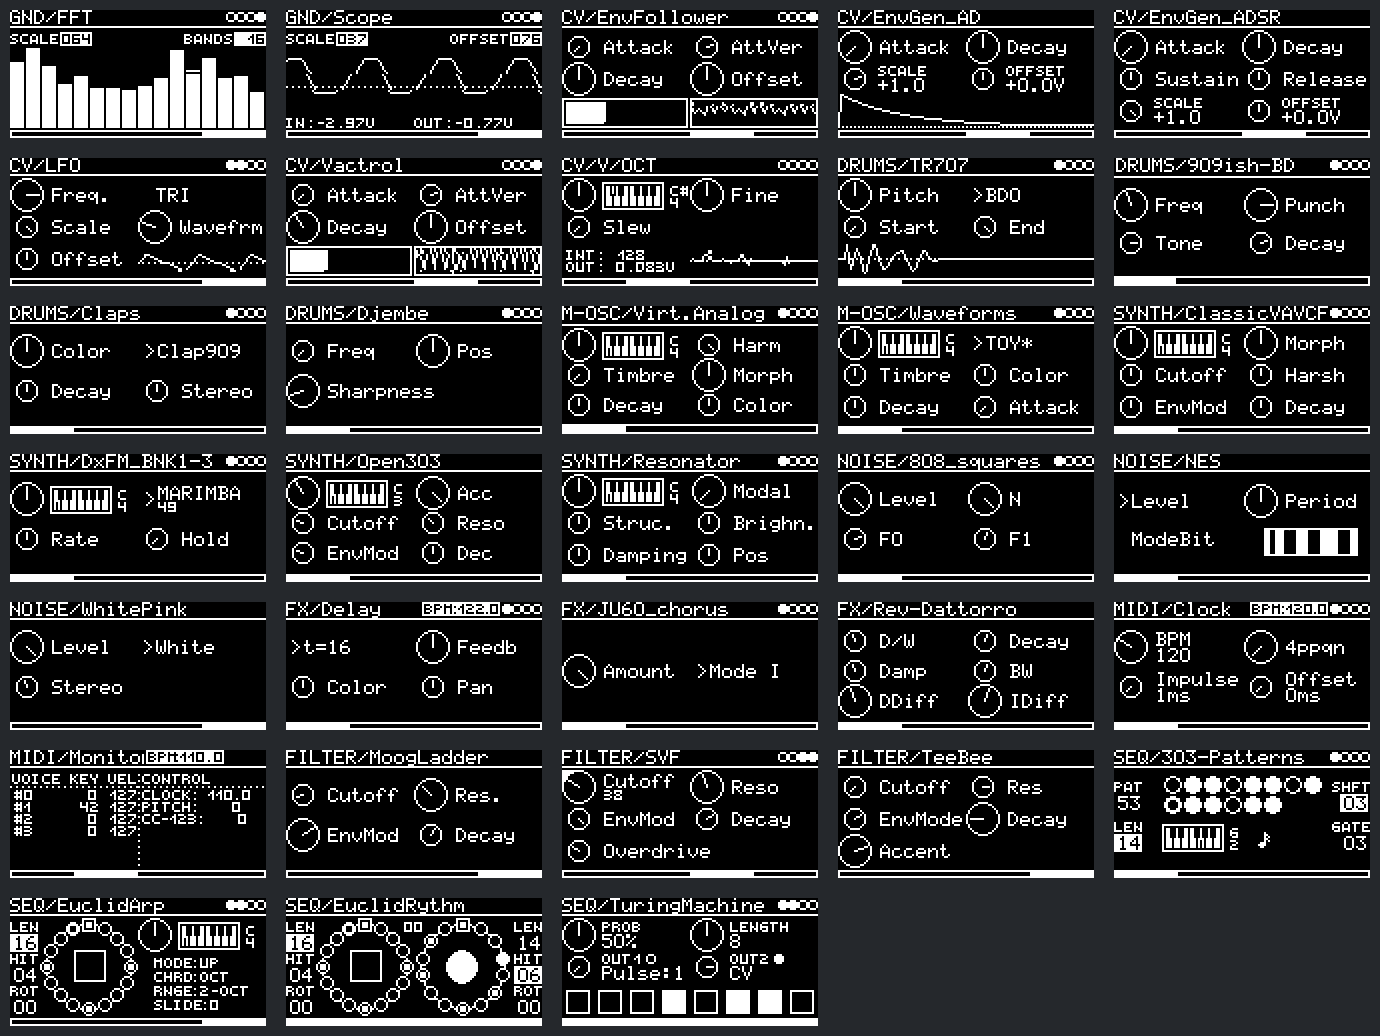
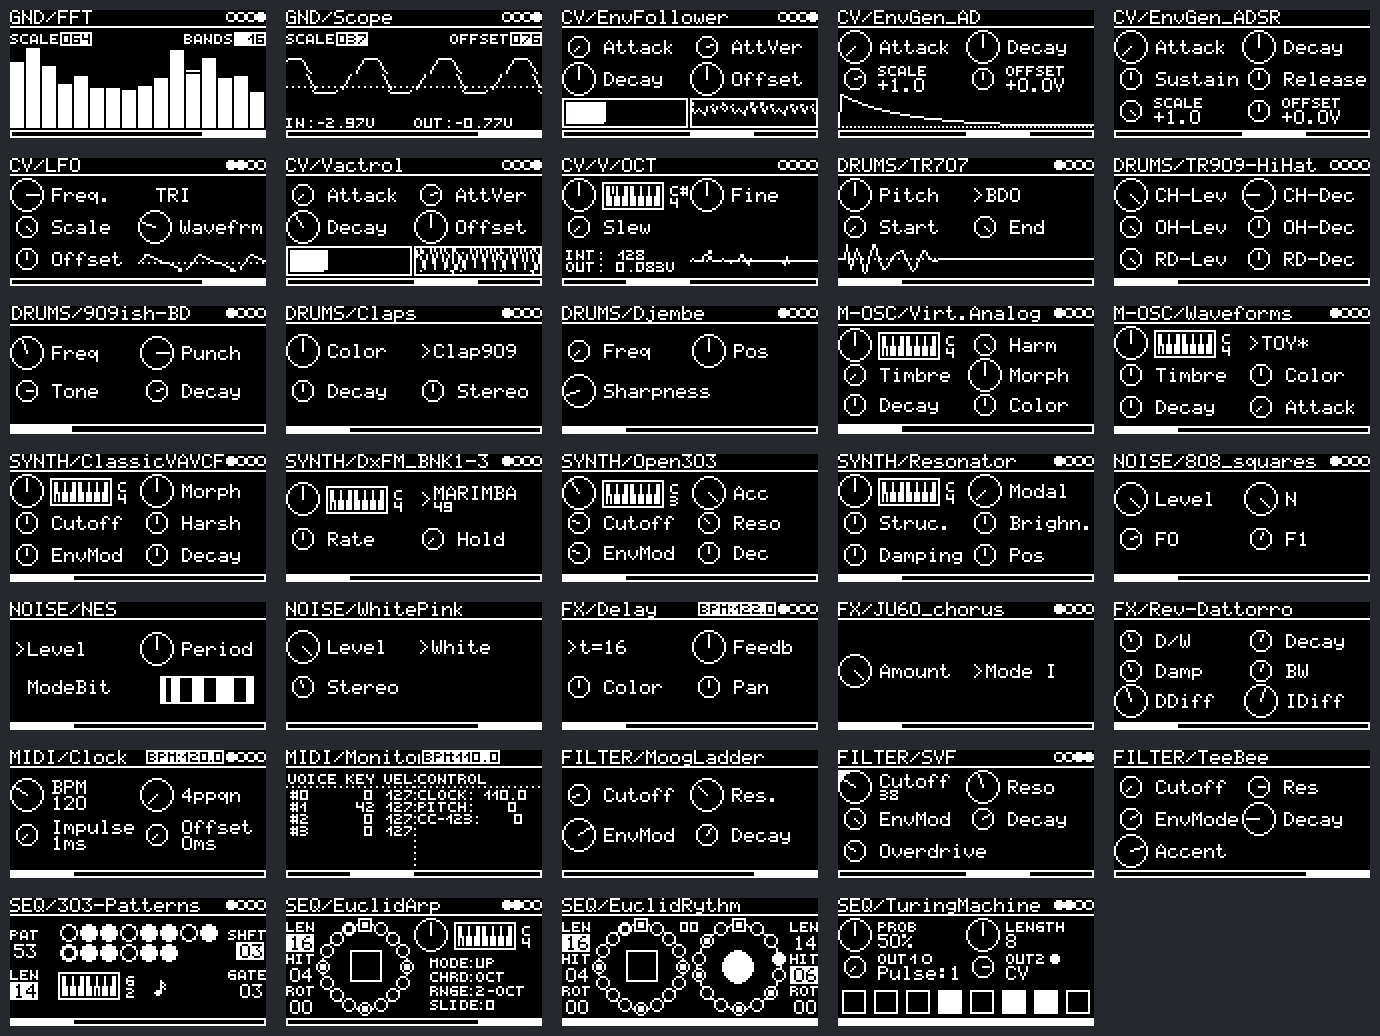
devsync 6d501ea

diff --git a/src/DRUMS/TR909-HiHat.cpp b/src/DRUMS/TR909-HiHat.cpp
@@ -2,27 +2,57 @@
 
 static float _ch_vol = 1.f;
 static float _ch_dec = 0.2f;
+static float _oh_vol = 1.f;
 static float _oh_dec = 0.5f;
+static float _rd_vol = 1.f;
+static float _rd_dec = 0.5f;
 
-int32_t _select = 0;
+int32_t _select;
+const char *sample_names[] = {"CH", "OH", "RD"};
+// void *_samples[3] = {};
 void *_ch = nullptr;
 void *_oh = nullptr;
+void *_rd = nullptr;
+
+static std::pair<uint8_t, uint8_t> midi_key_map[] = {
+    {42, 0}, // HH - Closed
+    {44, 0}, // HH - Pedal
+    {46, 1}, // HH - Open
+    {51, 2}, // RD - Ride
+    {59, 2}, // RD - Ride Edge
+    {53, 2}, // RD - Ride Bell
+    // {49, 3},  // CR - Crash
+    // {55, 3},  // CR - Crash Edge
+    // {57, 3},  // CR - Crash Bow
+    {0xFF, 0}, // END
+};
+
+float *_outputL = nullptr;
+float *_outputR = nullptr;
 
 void engine::setup()
 {
     const uint8_t *HiHats_bin = machine::fs_read("909_HIGH");
+    const uint8_t *Ride_bin = machine::fs_read("909_RIDE");
 
-    if (HiHats_bin == nullptr)
+    if (HiHats_bin == nullptr || Ride_bin == nullptr)
         return;
 
-    _oh = dsp_sample_u8(HiHats_bin, 24576, 32000, 0);
     const int ch_start = 24576;
     _ch = dsp_sample_u8(HiHats_bin + ch_start, 32768 - ch_start, 32000, 0);
+    _oh = dsp_sample_u8(HiHats_bin, 24576, 32000, 0);
+    _rd = dsp_sample_u8(Ride_bin, 32768, 32000, 0);
 
-    engine::addParam("", &_select, 0, 0); // . = hidden
     engine::addParam("CH-Lev", &_ch_vol);
     engine::addParam("CH-Dec", &_ch_dec);
+    engine::addParam("OH-Lev", &_oh_vol);
     engine::addParam("OH-Dec", &_oh_dec);
+    engine::addParam("RD-Lev", &_rd_vol);
+    engine::addParam("RD-Dec", &_rd_dec);
+
+    _outputL = engine::outputBuffer_f32(OUT_AUDIO_L);
+    _outputR = engine::outputBuffer_f32(OUT_AUDIO_R);
+    engine::setupMultiTrigs(3, sample_names, midi_key_map);
 }
 
 void engine::process()
@@ -30,21 +60,36 @@ void engine::process()
     if (_oh == nullptr)
         return;
 
-    auto outputL = engine::outputBuffer<0>();
-    memset(outputL, 0, sizeof(float) * FRAME_BUFFER_SIZE);
-
-    if (engine::accent()) // OH
+    if (engine::trig() & (1 << 1)) // OH
     {
-        dsp_set_sample_pos(_oh, 0, 1.f, _oh_dec);
+        dsp_set_sample_pos(_oh, 0, _oh_vol, _oh_dec);
     }
-    else if (engine::trig()) // CH
+    else if (engine::trig() & (1 << 0)) // CH
     {
         dsp_set_sample_pos(_ch, 0, _ch_vol, _ch_dec);
         dsp_set_sample_pos(_oh, 0, 0, _oh_dec);
     }
 
-    dsp_process_sample(_ch, 0, 1, engine::cv(), outputL);
-    dsp_process_sample(_oh, 0, 1, engine::cv(), outputL);
+    if (engine::trig() & (1 << 2)) // RD
+    {
+        dsp_set_sample_pos(_rd, 0, _rd_vol, _rd_dec);
+    }
+
+    memset(_outputL, 0, sizeof(float) * FRAME_BUFFER_SIZE);
+    memset(_outputR, 0, sizeof(float) * FRAME_BUFFER_SIZE);
+    void *_samples[] = {_ch, _oh, _rd};
+    for (size_t i = 0; i < LEN_OF(_samples) && _samples[i] != nullptr; i++)
+    {
+        float tmp[FRAME_BUFFER_SIZE] = {};
+        dsp_process_sample(_samples[i], 0, 1, engine::cv(), tmp);
+        float levelL = engine::mixLevelL(i);
+        float levelR = engine::mixLevelR(i);
+        for (size_t j = 0; j < FRAME_BUFFER_SIZE; j++)
+        {
+            _outputL[j] += tmp[j] * levelL;
+            _outputR[j] += tmp[j] * levelR;
+        }
+    }
 }
 
 void engine::draw()

diff --git a/src/squares-and-circles-api.h b/src/squares-and-circles-api.h
@@ -41,7 +41,6 @@
 #define V_QTZ "V_QTZ"
 #define SEQ_SWING "$SWING"
 #define MULTI_TRIGS ">TRIGS"
-#define IO_STEREOLIZE ".IO_STEREO"
 
 #define OUT_CV "CV"
 #define OUT_VOCT "VOCT"
@@ -322,6 +321,7 @@ void __attribute__((weak)) onMidiPitchbend(int16_t pitch);
 void __attribute__((weak)) onMidiCC(uint8_t ccc, uint8_t value);
 void __attribute__((weak)) onMidiSysex(uint8_t byte);
 
+EXTERN_C void setupMultiTrigs(size_t count, const char **names, const std::pair<uint8_t, uint8_t> *keyMap);
 EXTERN_C void setMultiTrigMidiKeyMap(const std::pair<uint8_t, uint8_t> *keyMap);
 
 inline uint8_t getMidiCC(uint8_t ccc)

diff --git a/src/SYNTH/DxFM.cpp b/src/SYNTH/DxFM.cpp
@@ -213,7 +213,6 @@ void engine::setup()
         const uint8_t *sysexData = fm_patches_table[prog / 32];
     }
 
-    engine::addParam(IO_STEREOLIZE, &_stereolize);
     engine::addParam(V_OCT, &_pitch);
 
     if (nprogs == 0)
@@ -229,6 +228,7 @@ void engine::setup()
 
     _hold = 0;
     engine::addParam("Hold", &_hold, 0, SAMPLE_RATE / FRAME_BUFFER_SIZE);
+    engine::addParam("Stereo", &_stereolize);
 
     Exp2::init();
     Tanh::init();

diff --git a/README.md b/README.md
@@ -79,7 +79,7 @@ The available engine types include drums, synthesizers, oscillators, sequencers,
   * [Analog-HH2](https://github.com/eh2k/squares-and-circles/wiki/Analog-HH2),
   * [909ish-BD](https://github.com/eh2k/squares-and-circles/wiki/909ish-BD),
   * [909ish-SD](https://github.com/eh2k/squares-and-circles/wiki/909ish-SD),
-  * [TR909-HiHat, TR909-Ride](https://github.com/eh2k/squares-and-circles/wiki/TR909_HiHats)
+  * [TR909-HiHat](https://github.com/eh2k/squares-and-circles/wiki/TR909_HiHats)
   * [808ish-BD](https://github.com/eh2k/squares-and-circles/wiki/808ish-BD),
   * [808ish-SD](https://github.com/eh2k/squares-and-circles/wiki/808ish-SD),
   * [808ish-HiHat](https://github.com/eh2k/squares-and-circles/wiki/808ish-HiHat),
